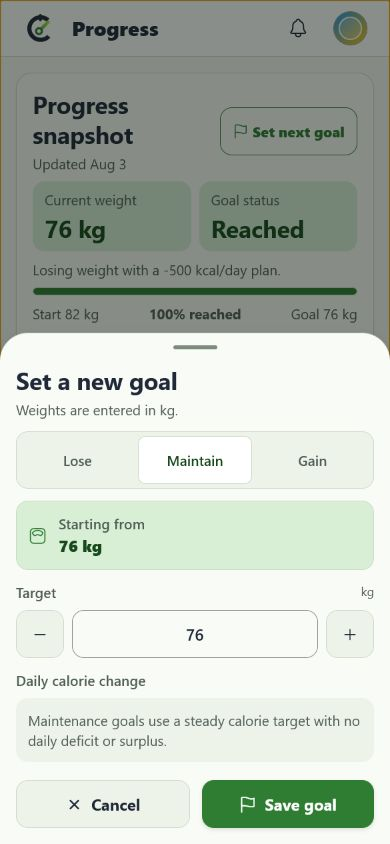
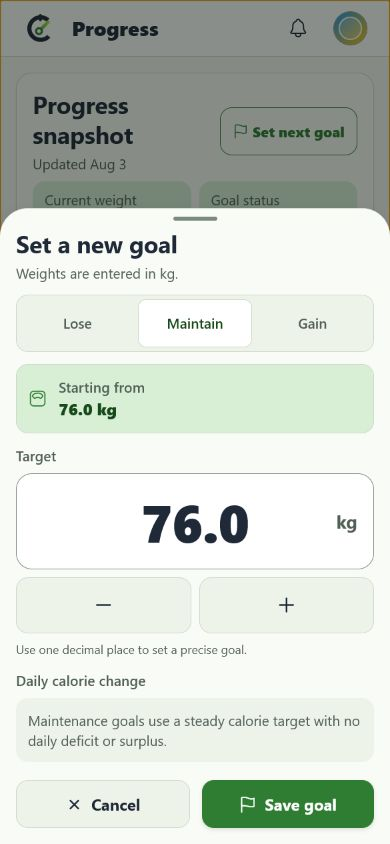
Center and reuse weight input control

diff --git a/mobile/src/components/WeightValueInput.tsx b/mobile/src/components/WeightValueInput.tsx
@@ -9,12 +9,19 @@ import {
 } from 'react-native';
 import Ionicons from '@expo/vector-icons/Ionicons';
 import type { WeightUnit } from '@calibrate/shared';
-import { AppText } from '../components/AppText';
+import { AppText } from './AppText';
 import { type AppTheme, useAppTheme } from '../theme';
 import { formatWeightUnit } from '../utils/format';
-import { formatWeightInput, getSpokenWeightUnit, normalizeWeightInputText, parseWeightInput } from './input';
+import {
+    formatWeightInput,
+    getSpokenWeightUnit,
+    normalizeWeightInputText,
+    parseWeightInput
+} from '../weightEntry/input';
 
 type WeightValueInputProps = {
+    label?: string;
+    helperText?: string | null;
     value: string;
     unit: WeightUnit | undefined;
     step: number;
@@ -28,10 +35,14 @@ type WeightValueInputProps = {
 
 const WEIGHT_VALUE_FONT_SIZE = 52; // Makes the single central measurement the visual anchor of the sheet.
 const WEIGHT_VALUE_LINE_HEIGHT = 62;
-const WEIGHT_VALUE_MIN_HEIGHT = 96;
+const WEIGHT_VALUE_HEIGHT = 96;
+const WEIGHT_VALUE_UNIT_GUTTER = 64; // Keeps centered text clear of the unit suffix on narrow screens.
 const WEIGHT_STEPPER_SIZE = 56;
+const DEFAULT_HELPER_TEXT = 'Use one decimal place for a precise, consistent trend.';
 
 export const WeightValueInput: React.FC<WeightValueInputProps> = ({
+    label = 'Weight',
+    helperText = DEFAULT_HELPER_TEXT,
     value,
     unit,
     step,
@@ -45,6 +56,7 @@ export const WeightValueInput: React.FC<WeightValueInputProps> = ({
     const theme = useAppTheme();
     const styles = useMemo(() => createStyles(theme), [theme]);
     const spokenUnit = getSpokenWeightUnit(unit);
+    const measurementLabel = label.toLowerCase();
     const parsedValue = parseWeightInput(value);
 
     function adjust(delta: number) {
@@ -60,11 +72,11 @@ export const WeightValueInput: React.FC<WeightValueInputProps> = ({
 
     return (
         <View style={styles.root}>
-            <AppText variant="label">Weight</AppText>
-            <View style={styles.valueSurface}>
+            <AppText variant="label">{label}</AppText>
+            <View testID="weight-value-surface" style={styles.valueSurface}>
                 <TextInput
                     ref={inputRef}
-                    accessibilityLabel={`Weight in ${spokenUnit}`}
+                    accessibilityLabel={`${label} in ${spokenUnit}`}
                     accessibilityHint="Enter a weight using one decimal place."
                     autoCorrect={false}
                     editable={editable}
@@ -80,12 +92,14 @@ export const WeightValueInput: React.FC<WeightValueInputProps> = ({
                     style={styles.input}
                     value={value}
                 />
-                <AppText accessible={false} style={styles.unit}>{formatWeightUnit(unit)}</AppText>
+                <View pointerEvents="none" style={styles.unitSlot}>
+                    <AppText accessible={false} style={styles.unit}>{formatWeightUnit(unit)}</AppText>
+                </View>
             </View>
             <View style={styles.stepperRow}>
                 <Pressable
                     accessibilityRole="button"
-                    accessibilityLabel={`Decrease weight by ${step} ${getSpokenWeightUnit(unit, step !== 1)}`}
+                    accessibilityLabel={`Decrease ${measurementLabel} by ${step} ${getSpokenWeightUnit(unit, step !== 1)}`}
                     accessibilityValue={{ text: accessibleValue }}
                     disabled={!editable}
                     onPress={() => adjust(-step)}
@@ -99,7 +113,7 @@ export const WeightValueInput: React.FC<WeightValueInputProps> = ({
                 </Pressable>
                 <Pressable
                     accessibilityRole="button"
-                    accessibilityLabel={`Increase weight by ${step} ${getSpokenWeightUnit(unit, step !== 1)}`}
+                    accessibilityLabel={`Increase ${measurementLabel} by ${step} ${getSpokenWeightUnit(unit, step !== 1)}`}
                     accessibilityValue={{ text: accessibleValue }}
                     disabled={!editable}
                     onPress={() => adjust(step)}
@@ -112,7 +126,7 @@ export const WeightValueInput: React.FC<WeightValueInputProps> = ({
                     <Ionicons name="add" size={24} color={theme.colors.onSurface} />
                 </Pressable>
             </View>
-            <AppText variant="caption">Use one decimal place for a precise, consistent trend.</AppText>
+            {helperText ? <AppText variant="caption">{helperText}</AppText> : null}
         </View>
     );
 };
@@ -122,29 +136,35 @@ const createStyles = (theme: AppTheme) => StyleSheet.create({
         gap: theme.spacing.sm
     },
     valueSurface: {
-        minHeight: WEIGHT_VALUE_MIN_HEIGHT,
-        flexDirection: 'row',
-        alignItems: 'baseline',
+        height: WEIGHT_VALUE_HEIGHT,
+        alignItems: 'center',
         justifyContent: 'center',
-        gap: theme.spacing.sm,
         borderRadius: theme.radius.lg,
         borderColor: theme.colors.outline,
         borderWidth: theme.stroke.control,
         backgroundColor: theme.colors.surface,
-        paddingHorizontal: theme.spacing.lg,
-        paddingVertical: theme.spacing.sm
+        overflow: 'hidden'
     },
     input: {
-        minWidth: 0,
-        flexShrink: 1,
+        width: '100%',
+        height: '100%',
         color: theme.colors.onSurface,
         fontSize: WEIGHT_VALUE_FONT_SIZE,
         lineHeight: WEIGHT_VALUE_LINE_HEIGHT,
         fontWeight: '800',
         fontVariant: ['tabular-nums'],
         letterSpacing: -0.6,
-        padding: 0,
-        textAlign: 'right'
+        paddingHorizontal: WEIGHT_VALUE_UNIT_GUTTER,
+        paddingVertical: 0,
+        textAlign: 'center',
+        textAlignVertical: 'center'
+    },
+    unitSlot: {
+        position: 'absolute',
+        top: 0,
+        right: theme.spacing.lg,
+        bottom: 0,
+        justifyContent: 'center'
     },
     unit: {
         color: theme.colors.onSurfaceVariant,

diff --git a/mobile/src/components/WeightValueInput.test.tsx b/mobile/src/components/WeightValueInput.test.tsx
@@ -18,9 +18,38 @@ describe('WeightValueInput', () => {
         );
 
         const input = screen.getByLabelText('Weight in pounds');
-        expect(StyleSheet.flatten(input.props.style)).toEqual(expect.objectContaining({ fontSize: 52 }));
+        expect(StyleSheet.flatten(input.props.style)).toEqual(expect.objectContaining({
+            fontSize: 52,
+            height: '100%',
+            textAlign: 'center',
+            textAlignVertical: 'center'
+        }));
+        expect(screen.getByTestId('weight-value-surface')).toHaveStyle({
+            height: 96,
+            alignItems: 'center',
+            justifyContent: 'center'
+        });
         expect(screen.getByRole('button', { name: 'Decrease weight by 0.1 pounds' })).toHaveStyle({ minHeight: 56 });
         expect(screen.getByRole('button', { name: 'Increase weight by 0.1 pounds' })).toHaveStyle({ minHeight: 56 });
+    });
+
+    it('supports goal-specific labeling without changing the control geometry', () => {
+        const screen = render(
+            <WeightValueInput
+                label="Target"
+                value="165"
+                unit="LB"
+                step={0.1}
+                min={0.1}
+                editable
+                onChangeText={jest.fn()}
+            />
+        );
+
+        expect(screen.getByText('Target')).toBeTruthy();
+        expect(screen.getByLabelText('Target in pounds')).toHaveProp('value', '165');
+        expect(screen.getByTestId('weight-value-surface')).toHaveStyle({ height: 96 });
+        expect(screen.getByRole('button', { name: 'Decrease target by 0.1 pounds' })).toBeTruthy();
     });
 
     it('normalizes a decimal comma and steps at one tenth', () => {

diff --git a/mobile/src/progress/ProgressScreen.test.tsx b/mobile/src/progress/ProgressScreen.test.tsx
@@ -1,5 +1,6 @@
 import React from 'react';
 import { fireEvent, render, waitFor } from '@testing-library/react-native';
+import { StyleSheet } from 'react-native';
 import { QueryClient, QueryClientProvider } from '@tanstack/react-query';
 import { SafeAreaProvider } from 'react-native-safe-area-context';
 import type { GoalEntry } from '@calibrate/api-client';
@@ -78,7 +79,13 @@ describe('Progress goal completion flow', () => {
 
         expect(screen.getByText('Set a new goal')).toBeTruthy();
         expect(screen.getAllByText('169 lb')).toHaveLength(2);
-        expect(screen.getByLabelText('Target')).toHaveProp('value', '169');
+        const targetInput = screen.getByLabelText('Target in pounds');
+        expect(targetInput).toHaveProp('value', '169');
+        expect(StyleSheet.flatten(targetInput.props.style)).toEqual(expect.objectContaining({
+            fontSize: 52,
+            textAlign: 'center',
+            textAlignVertical: 'center'
+        }));
         await waitFor(() => {
             expect(screen.getAllByRole('radio').map((radio) => radio.props.accessibilityState.checked))
                 .toEqual([false, true, false]);
@@ -108,7 +115,7 @@ describe('Progress goal completion flow', () => {
         );
 
         expect(await screen.findByText('Set a new goal')).toBeTruthy();
-        expect(screen.getByLabelText('Target')).toHaveProp('value', '169');
+        expect(screen.getByLabelText('Target in pounds')).toHaveProp('value', '169');
         expect(mockApi.createGoal).not.toHaveBeenCalled();
         screen.unmount();
         queryClient.clear();

diff --git a/mobile/app/(tabs)/progress.tsx b/mobile/app/(tabs)/progress.tsx
@@ -8,7 +8,7 @@ import { AppText } from '../../src/components/AppText';
 import { BottomSheetModal } from '../../src/components/BottomSheetModal';
 import { GoalProgressCard } from '../../src/components/GoalProgressCard';
 import { GoalDailyChangeSelect } from '../../src/components/GoalDailyChangeSelect';
-import { NumberStepperField } from '../../src/components/NumberStepperField';
+import { WeightValueInput } from '../../src/components/WeightValueInput';
 import { TabScreen } from '../../src/components/TabScreen';
 import { SectionHeader } from '../../src/components/SectionHeader';
 import { SegmentedControl } from '../../src/components/SegmentedControl';
@@ -198,13 +198,15 @@ export default function ProgressScreen() {
                             </AppText>
                         </View>
                     </View>
-                    <NumberStepperField
+                    <WeightValueInput
                         label="Target"
                         value={targetWeight}
+                        unit={user?.weight_unit}
                         onChangeText={setTargetWeight}
                         step={WEIGHT_INPUT_INCREMENT}
                         min={WEIGHT_INPUT_INCREMENT}
-                        suffix={formatWeightUnit(user?.weight_unit)}
+                        editable={!saveGoal.isPending}
+                        helperText="Use one decimal place to set a precise goal."
                     />
                     <View style={styles.dailyChangeSlot}>
                         <AppText variant="label">Daily calorie change</AppText>

diff --git a/e2e/expo-web/release-smoke.spec.ts b/e2e/expo-web/release-smoke.spec.ts
@@ -615,7 +615,17 @@ test('mobile weight logging keeps the progress result visible and hands off a re
   await expect(goalEditor.getByText('Set a new goal', { exact: true })).toBeVisible();
   await expect(goalEditor.getByRole('radio', { name: 'Maintain', exact: true })).toBeChecked();
   await expect(goalEditor.getByText('87.5 kg', { exact: true })).toBeVisible();
-  await expect(goalEditor.getByLabel('Target', { exact: true })).toHaveValue('87.5');
+  const targetInput = goalEditor.getByLabel('Target in kilograms', { exact: true });
+  await expect(targetInput).toHaveValue('87.5');
+  const targetInputGeometry = await targetInput.evaluate((element) => {
+    const styles = window.getComputedStyle(element);
+    return {
+      fontSize: Number.parseFloat(styles.fontSize),
+      textAlign: styles.textAlign,
+    };
+  });
+  expect(targetInputGeometry.fontSize).toBeGreaterThanOrEqual(48);
+  expect(targetInputGeometry.textAlign).toBe('center');
   expect(goalPostCount).toBe(0);
 });
 

diff --git a/mobile/src/components/WeightEntrySheet.tsx b/mobile/src/components/WeightEntrySheet.tsx
@@ -22,7 +22,7 @@ import { AppText } from './AppText';
 import { BottomSheetModal } from './BottomSheetModal';
 import { SectionHeader } from './SectionHeader';
 import { WeightSaveResult } from '../weightEntry/WeightSaveResult';
-import { WeightValueInput } from '../weightEntry/WeightValueInput';
+import { WeightValueInput } from './WeightValueInput';
 import { formatWeightInput, isWeightOutlier, parseWeightInput } from '../weightEntry/input';
 import { useAuth } from '../auth/AuthContext';
 import { executeOrQueueMutation, OFFLINE_MUTATION_OPERATIONS } from '../offline/operations';
